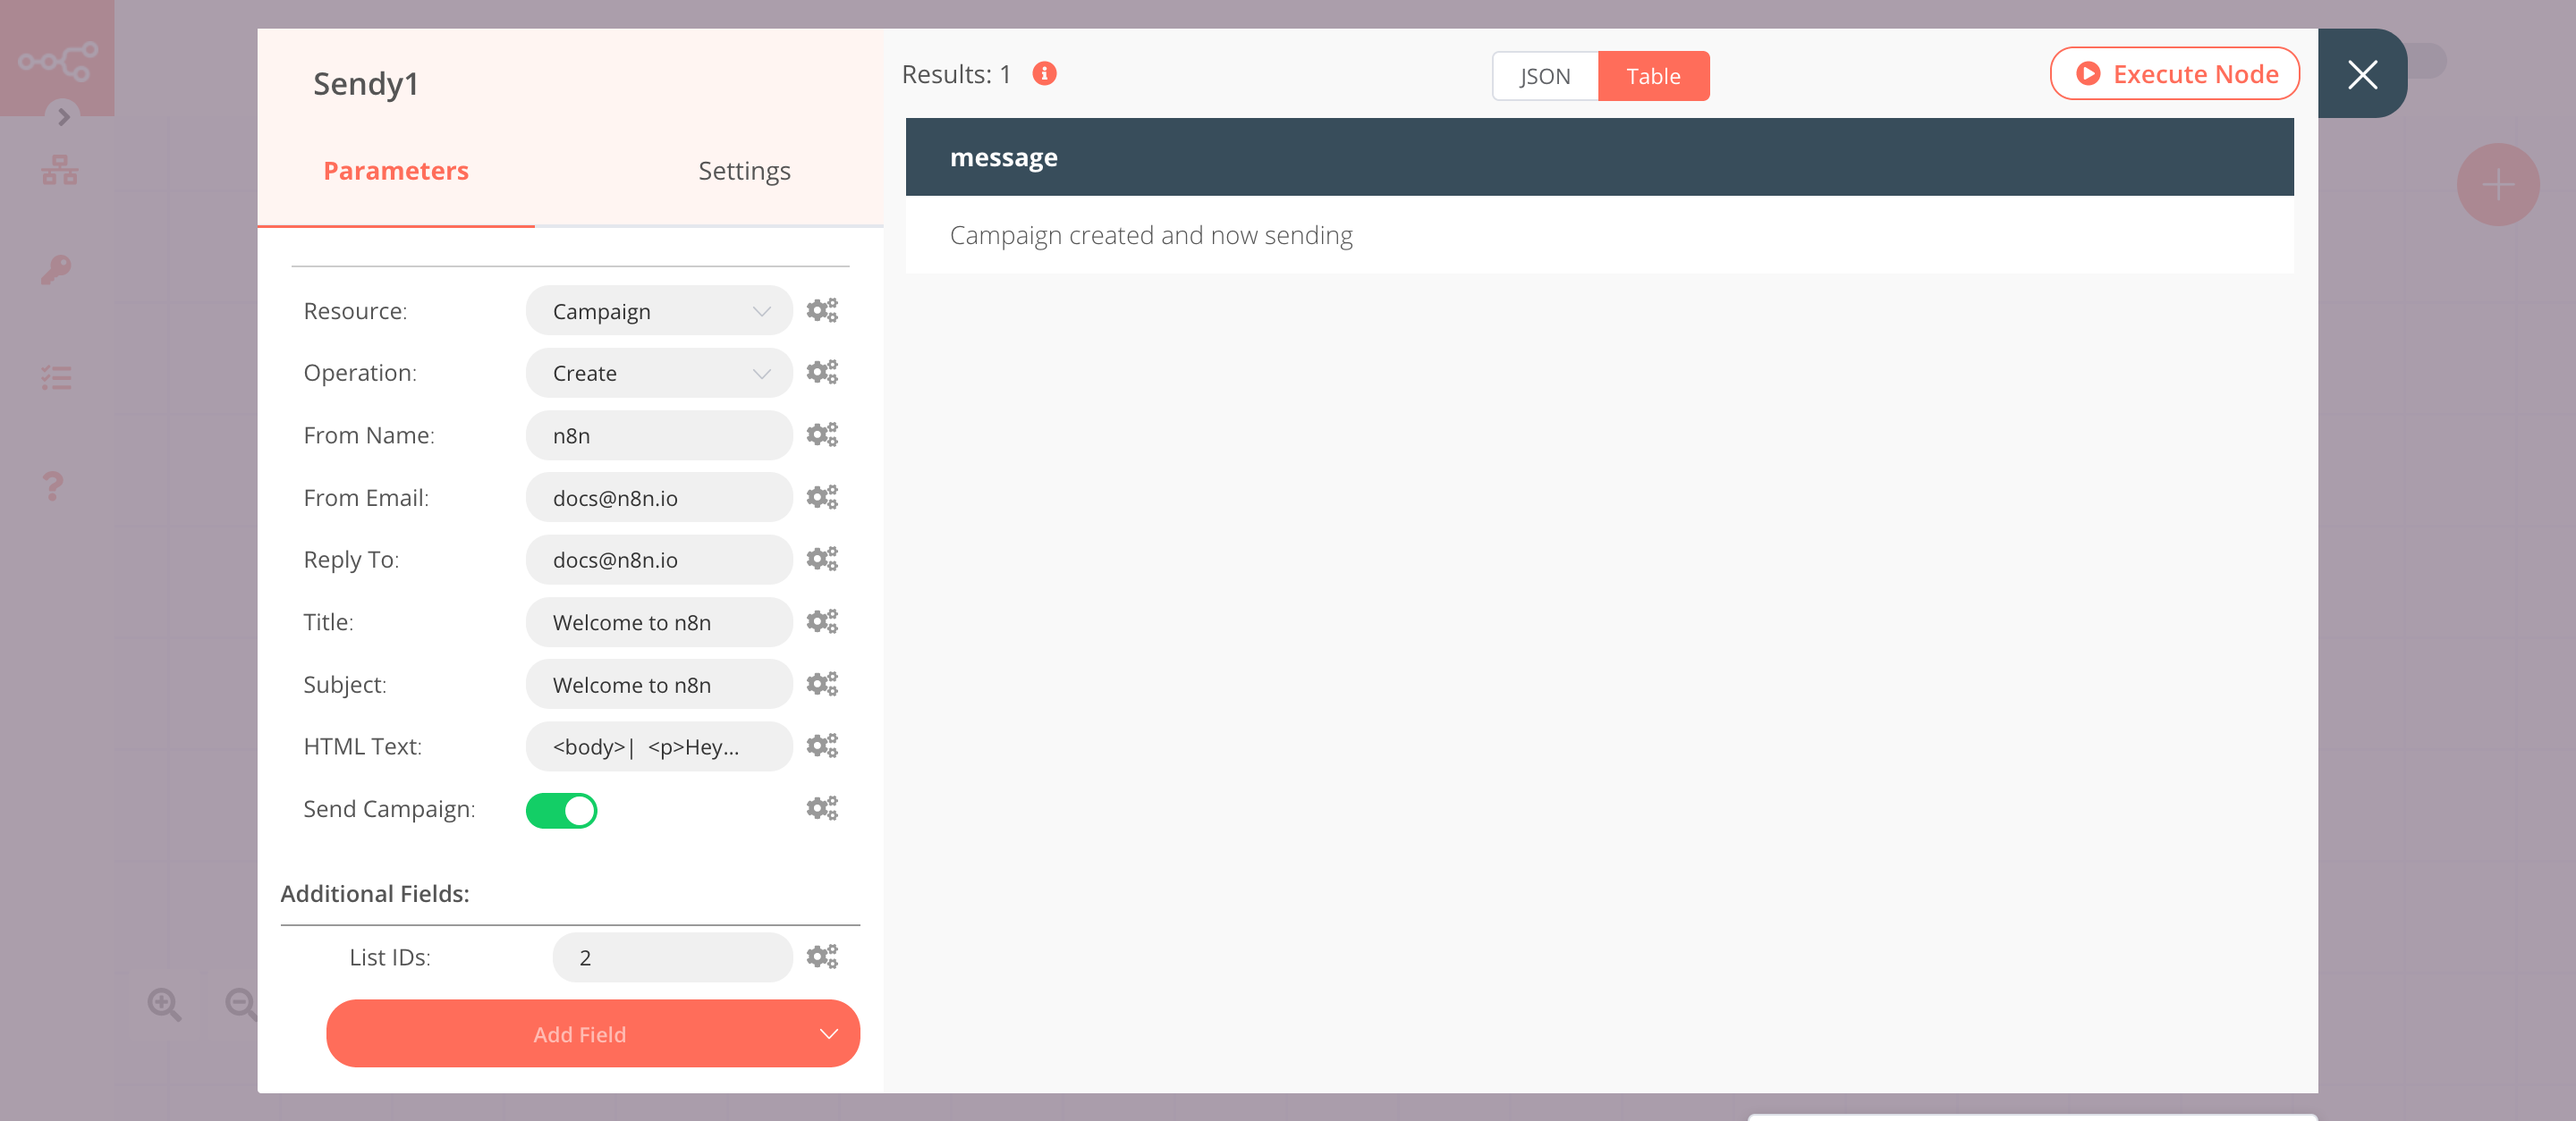
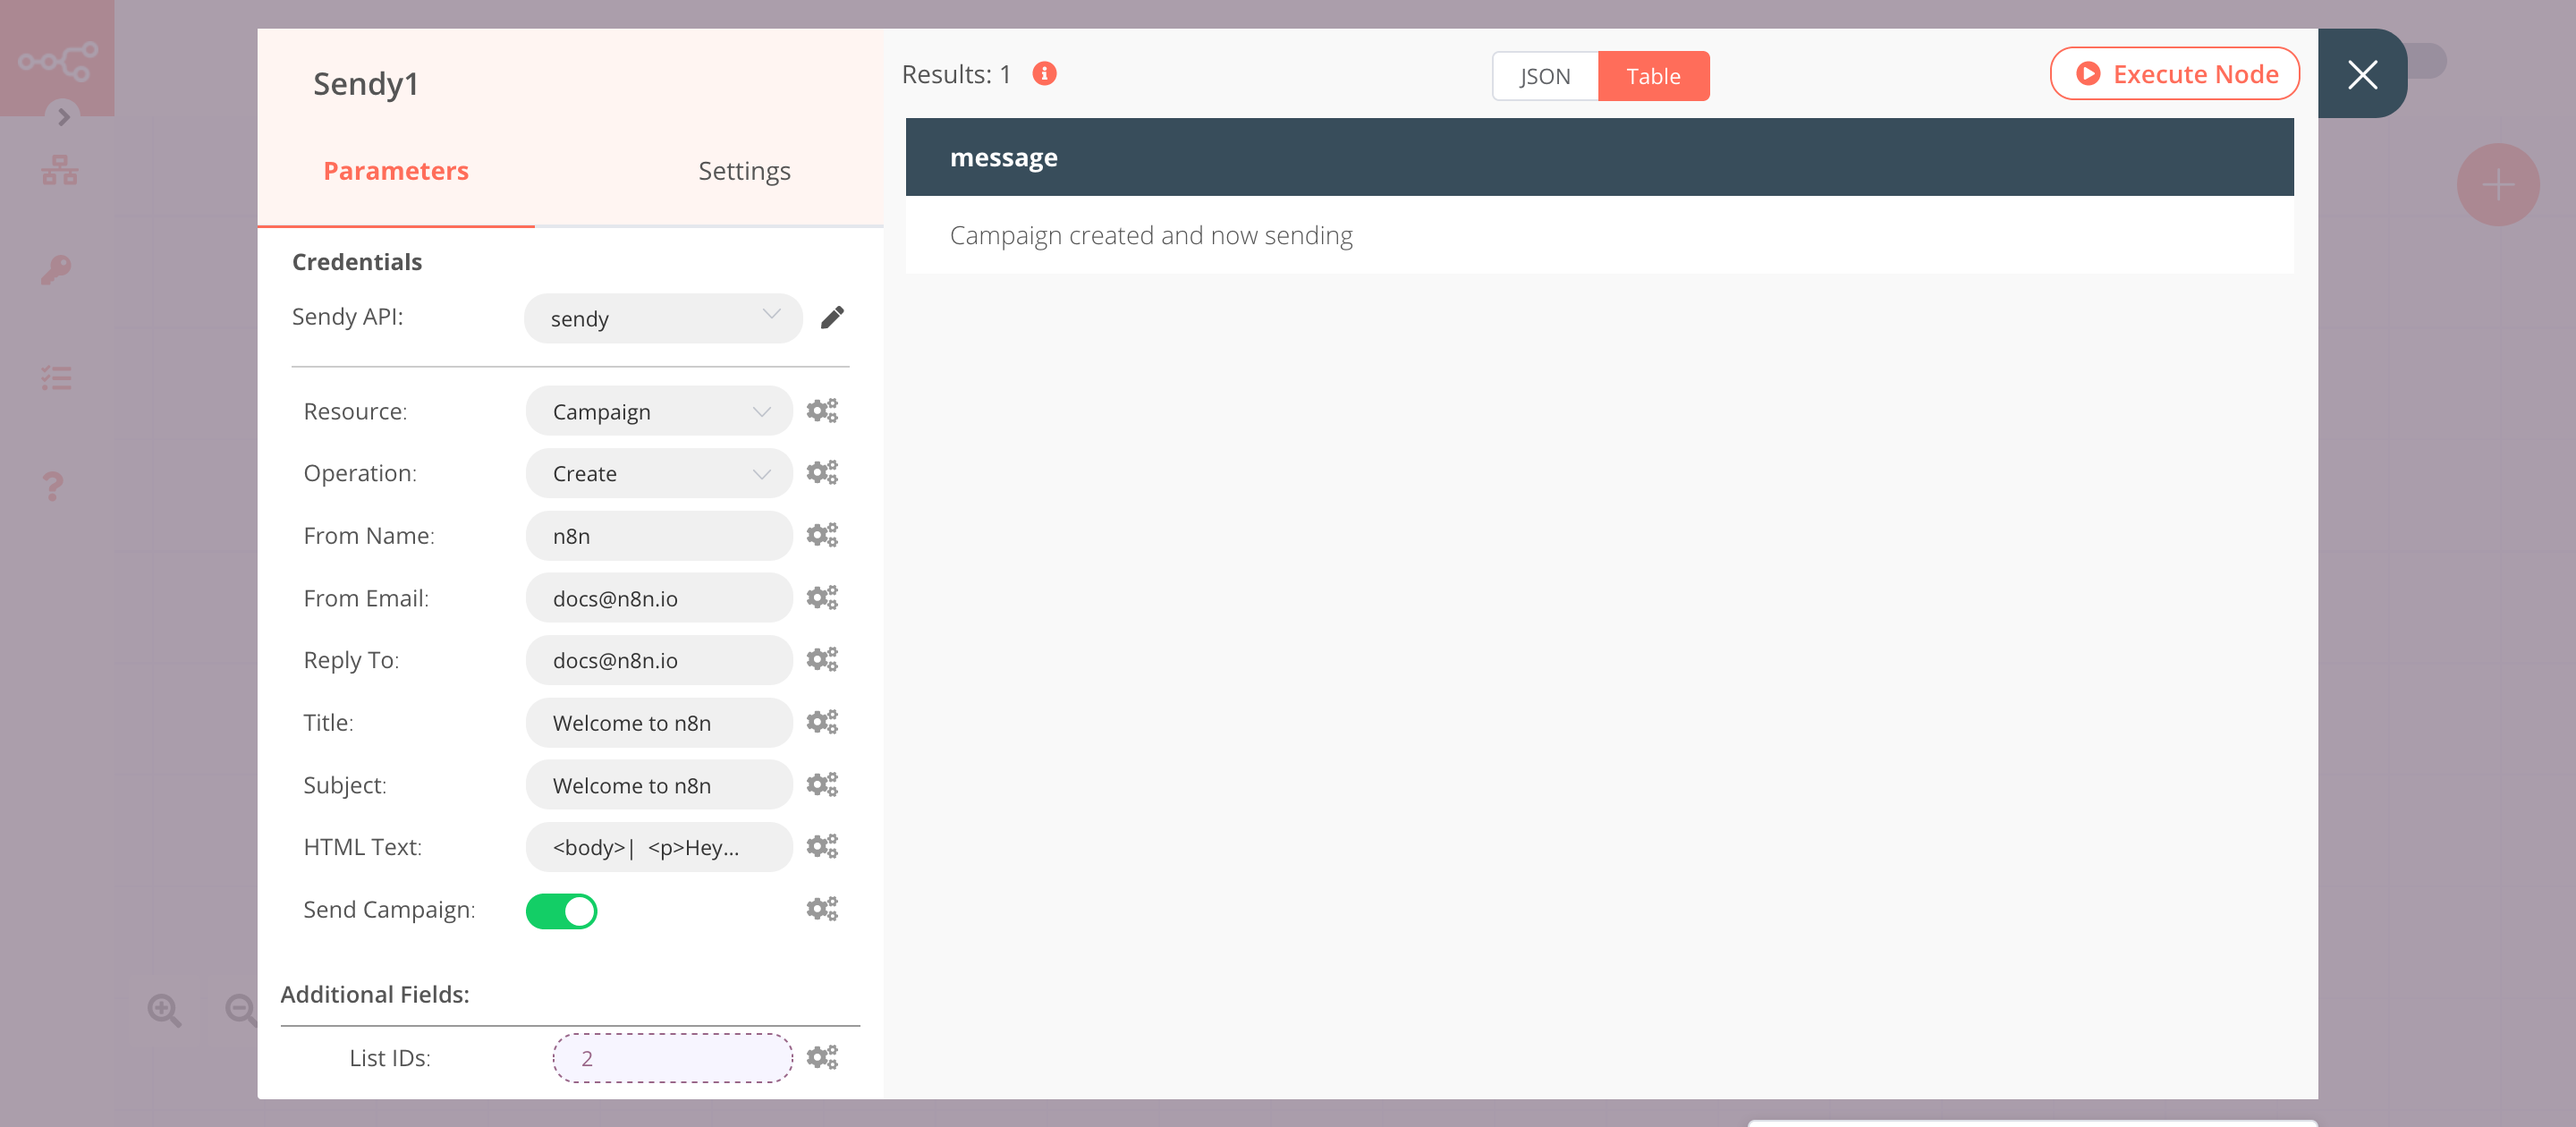
🔨 Bug fixes

diff --git a/docs/nodes/nodes-library/nodes/Sendy/README.md b/docs/nodes/nodes-library/nodes/Sendy/README.md
@@ -42,11 +42,11 @@ The Start node exists by default when you create a new workflow.
 
 ### 2. Sendy node (add: subscriber)
 
-This node will add a subscriber to a list in Sendy.
+This node will add a subscriber to a list in Sendy. If you don't have a list in Sendy, make sure to create one.
 
 1. First of all, you'll have to enter credentials for the Sendy node. You can find out how to do that [here](../../../credentials/Sendy/README.md).
 2. Enter the subscriber's email address in the ***Email*** field.
-3. Enter the list id in the ***List ID*** field.
+3. Copy and paste the list id from Sendy in the ***List ID*** field in n8n.
 4. Click on the ***Add Field*** button and select 'Name'.
 5. Enter the name of the subscriber in the ***Name*** field.
 6. Click on ***Execute Node*** to run the node.
@@ -58,7 +58,7 @@ In the screenshot below, you will notice that the node adds a subscriber with th
 ### 3. Sendy1 node (create: campaign)
 
 This node will create a campaign with the title 'Welcome to n8n' and send it to the subscribers of the list we specify. 
-
+::: v-pre
 1. Select the credentials that you entered in the previous node.
 2. Select 'Campaign' from the ***Resource*** dropdown list.
 3. Enter the name of the sender in the ***From Name*** field.
@@ -69,9 +69,10 @@ This node will create a campaign with the title 'Welcome to n8n' and send it to 
 8. Enter the HTML snippet of the email campaign in the ***HTML Text*** field.
 9. Toggle ***Send Campaign*** to true.
 10. Click on the ***Add Field*** button and select 'List IDs'.
-11. Enter the list id in the ***List IDs*** field.
-12. Click on ***Execute Node*** to run the workflow.
-
+11. Click on the gears icon next to the ***List IDs*** field and click on ***Add Expression***.
+12. Select the following in the ***Variable Selector*** section: Nodes > Sendy > Parameters > listId. You can also add the following expression: `{{$node["Sendy"].parameter["listId"]}}`.
+13. Click on ***Execute Node*** to run the node.
+:::
 In the screenshot below, you will notice that the node creates the campaign with the title `Welcome to n8n` and sends it to the list we specify.
 
 ![Using the Sendy node to create and send a campaign to a list](./Sendy1_node.png)
